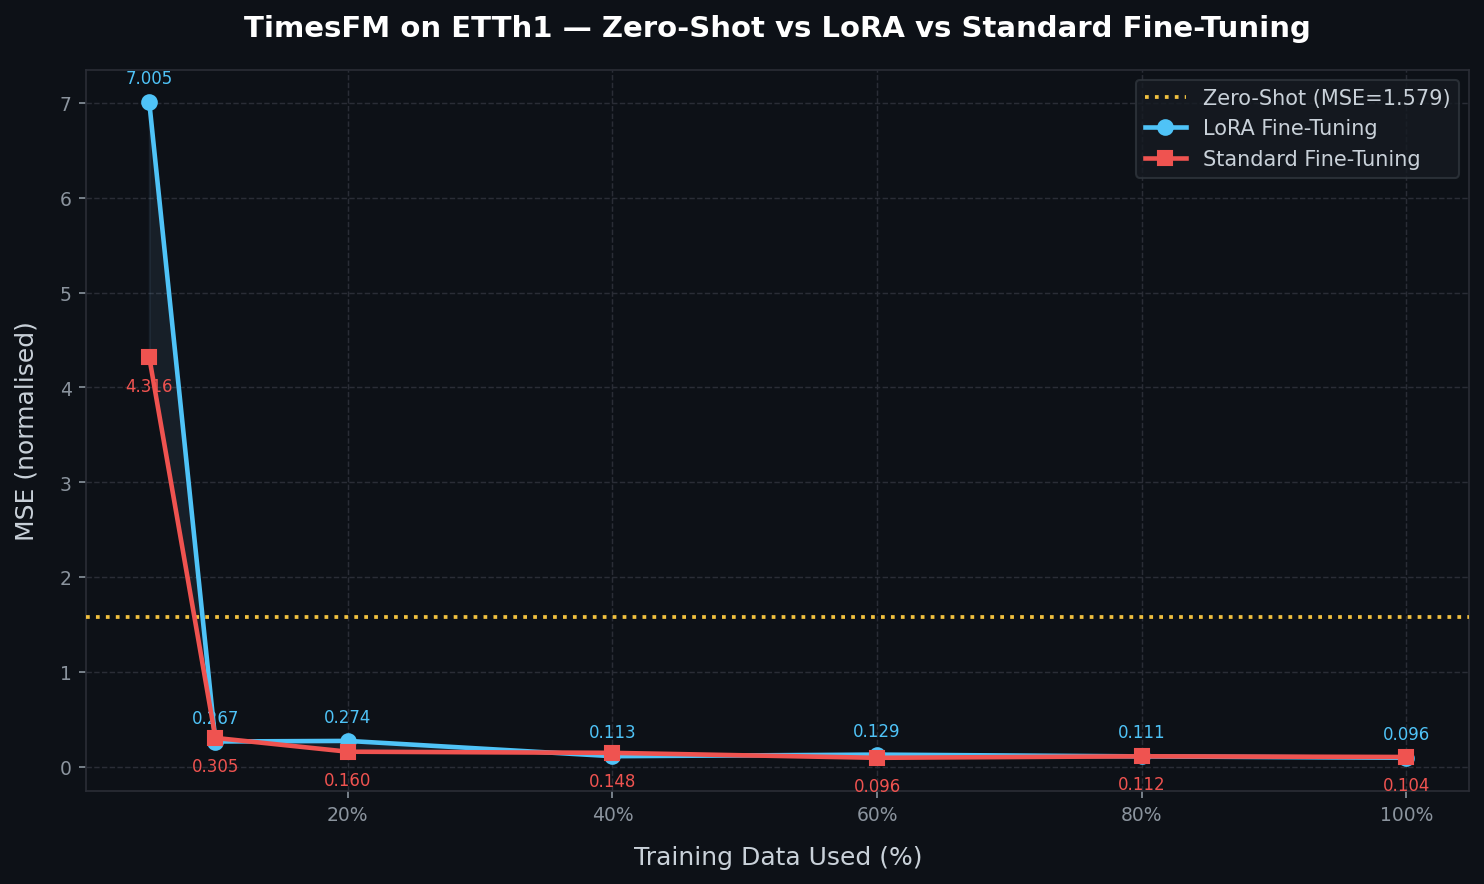
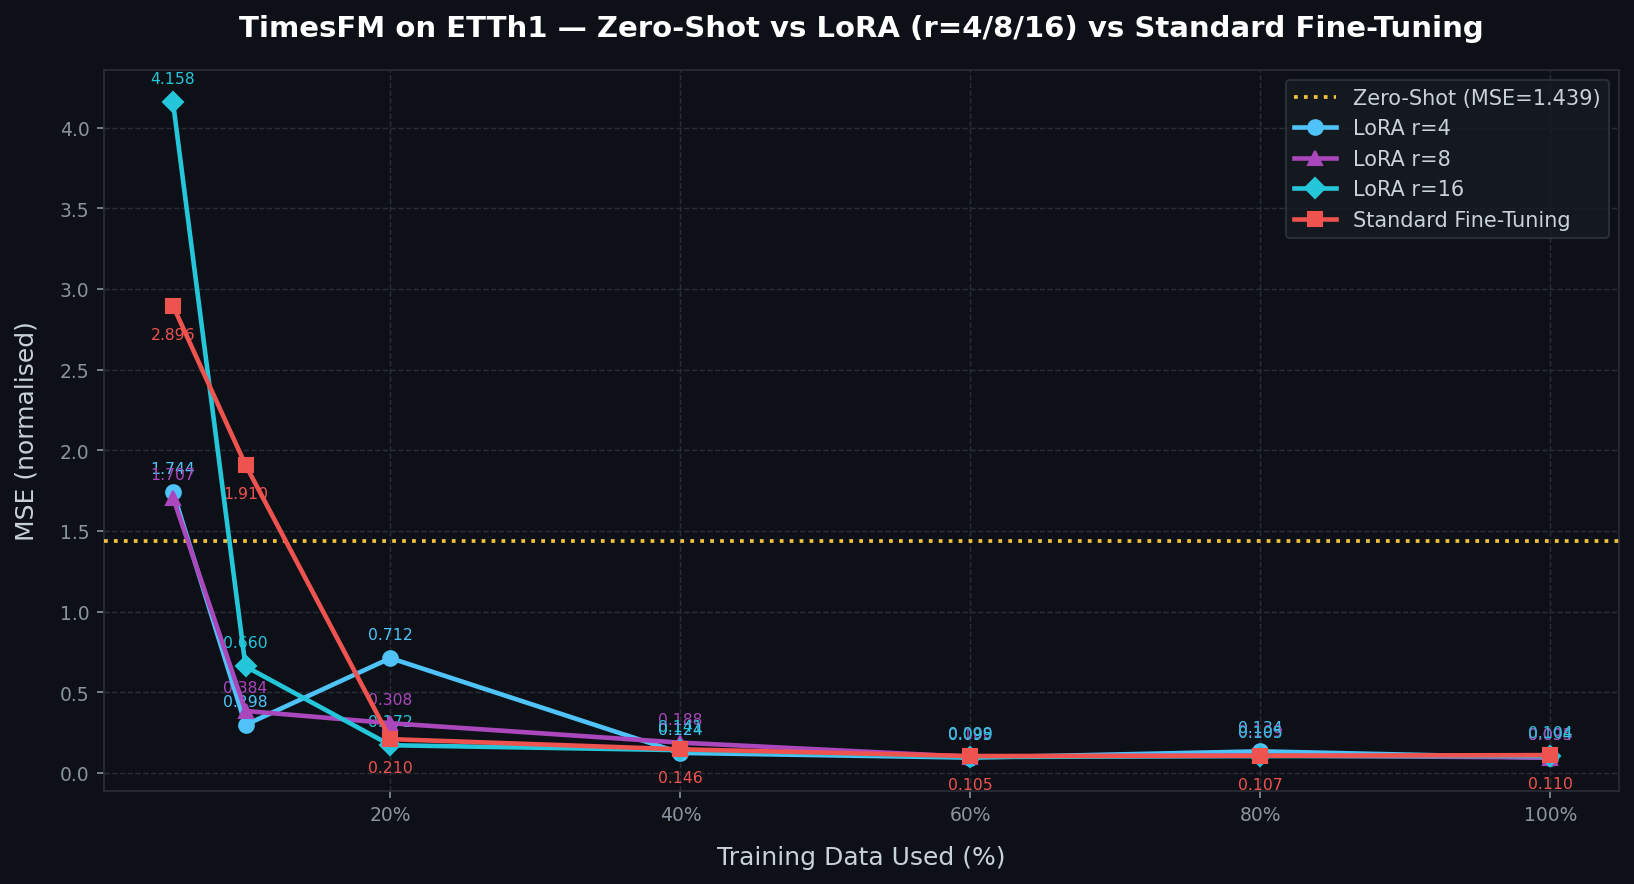
Regenerated Results

diff --git a/experiments.py b/experiments.py
@@ -1,11 +1,8 @@
 """
-TimesFM ETTh1 Benchmark: Zero-Shot vs LoRA vs Standard Fine-Tuning
+ETTh1 Benchmark: Zero-Shot vs LoRA vs Standard Fine-Tuning
 =================================================================
-Evaluates TimesFM across three training regimes on the ETTh1 dataset.
+Evaluates TimesFM-Based Surrogate Model across three training regimes on the ETTh1 dataset.
 Plots % Training Data vs MSE for each method.
-
-Dependencies:
-    pip install timesfm datasets pandas numpy matplotlib scikit-learn torch peft
 """
 
 import os
@@ -31,25 +28,6 @@ def count_trainable_params(model):
     print(f"    Trainable params: {trainable:,} / {total:,} "
           f"({100 * trainable / total:.2f}%)")
     return trainable, total
-
-# ── Try importing TimesFM (Google's model) ──────────────────────────────────
-try:
-    import timesfm
-    TIMESFM_AVAILABLE = True
-except ImportError:
-    TIMESFM_AVAILABLE = False
-    print("[WARNING] timesfm not installed. Run: pip install timesfm")
-    print("[INFO] Falling back to a lightweight Transformer surrogate for demo.\n")
-
-# ── Try importing PEFT for LoRA ──────────────────────────────────────────────
-try:
-    from peft import get_peft_model, LoraConfig, TaskType
-    PEFT_AVAILABLE = True
-except ImportError:
-    PEFT_AVAILABLE = False
-    print("[WARNING] peft not installed. Run: pip install peft")
-    print("[INFO] LoRA will use a manual low-rank adapter instead.\n")
-
 
 # ════════════════════════════════════════════════════════════════════════════
 # 0. CONFIG
@@ -115,44 +93,73 @@ def split_dataset(df, target_col=TARGET_COL):
 
 
 # ════════════════════════════════════════════════════════════════════════════
-# 2. SURROGATE MODEL (used when TimesFM is unavailable OR for fine-tuning)
+# 2. SURROGATE MODEL to Replicate TimesFM
 # ════════════════════════════════════════════════════════════════════════════
 class TimeSeriesTransformer(nn.Module):
     """
-    Lightweight Transformer for time-series forecasting.
-    Mimics TimesFM's patch-based encoder architecture at smaller scale.
-    Used as surrogate when timesfm package is absent, and as the
-    fine-tunable backbone in both SFT and LoRA experiments.
+    Decoder-only Transformer (GPT-style) for time-series forecasting.
     """
     def __init__(self, context_len=CONTEXT_LEN, forecast_len=FORECAST_LEN,
                  d_model=128, nhead=4, num_layers=3, patch_size=32):
         super().__init__()
-        self.patch_size  = patch_size
+
+        self.patch_size = patch_size
         self.num_patches = context_len // patch_size
         self.forecast_len = forecast_len
+        self.d_model = d_model
 
+        # ---- Patch embedding ----
         self.patch_embed = nn.Linear(patch_size, d_model)
         self.pos_emb     = nn.Embedding(self.num_patches, d_model)
-        encoder_layer    = nn.TransformerEncoderLayer(
-            d_model=d_model, nhead=nhead, dim_feedforward=d_model * 4,
-            dropout=0.1, batch_first=True
-        )
-        self.encoder = nn.TransformerEncoder(encoder_layer, num_layers=num_layers)
-        self.head    = nn.Linear(d_model * self.num_patches, forecast_len)
 
-    def forward(self, x):                          # x: (B, context_len)
+        # ---- Decoder-only stack ----
+        decoder_layer = nn.TransformerDecoderLayer(
+            d_model=d_model,
+            nhead=nhead,
+            dim_feedforward=d_model * 4,
+            dropout=0.1,
+            batch_first=True
+        )
+        self.decoder = nn.TransformerDecoder(decoder_layer, num_layers=num_layers)
+
+        # ---- Output head ----
+        self.head = nn.Linear(d_model * self.num_patches, forecast_len)
+
+    def _causal_mask(self, size, device):
+        return torch.triu(
+            torch.full((size, size), float('-inf'), device=device),
+            diagonal=1
+        )
+
+    def forward(self, x):
+        """
+        x: (B, context_len)
+        """
         B = x.size(0)
+        device = x.device
+
+        # ---- Patchify ----
         patches = x.view(B, self.num_patches, self.patch_size)  # (B, P, patch_size)
-        h = self.patch_embed(patches)              # (B, P, d_model)
-        pos = torch.arange(self.num_patches, device=x.device)
+        h = self.patch_embed(patches)                           # (B, P, d_model)
+
+        # ---- Add positional encoding ----
+        pos = torch.arange(self.num_patches, device=device)
         h = h + self.pos_emb(pos)
-        h = self.encoder(h)                        # (B, P, d_model)
-        h = h.reshape(B, -1)                       # (B, P*d_model)
-        return self.head(h)                        # (B, forecast_len)
+
+        # ---- Causal mask ----
+        tgt_mask = self._causal_mask(self.num_patches, device)
+
+        # ---- Decoder (no encoder memory) ----
+        # memory=None → acts like GPT-style self-attention
+        h = self.decoder(tgt=h, memory=h, tgt_mask=tgt_mask)
+
+        # ---- Flatten + predict ----
+        h = h.reshape(B, -1)
+        return self.head(h)
 
 
 # ════════════════════════════════════════════════════════════════════════════
-# 3. MANUAL LoRA (fallback when peft not available)
+# 3. LoRA Implementation
 # ════════════════════════════════════════════════════════════════════════════
 class LoRALinear(nn.Module):
     """Wraps an existing Linear layer with a low-rank adapter (r=8)."""
@@ -193,11 +200,11 @@ class LoRALinear(nn.Module):
 
 
 def inject_lora(model: nn.Module, r: int = 8) -> nn.Module:
-    """Replace every Linear in the encoder with a LoRA-wrapped version."""
-    for name, module in list(model.encoder.named_modules()):
+    """Replace every Linear in the Decoder with a LoRA-wrapped version."""
+    for name, module in list(model.decoder.named_modules()):
         if isinstance(module, nn.Linear):
             parent_name, child_name = name.rsplit(".", 1) if "." in name else ("", name)
-            parent = model.encoder
+            parent = model.decoder
             for part in parent_name.split("."):
                 if part:
                     parent = getattr(parent, part)
@@ -259,32 +266,8 @@ def run_zero_shot(X_test, y_test):
     on the test set — no gradient updates whatsoever.
     """
     print("\n── Zero-Shot Inference ──")
-    if TIMESFM_AVAILABLE:
-        print("  Using official TimesFM checkpoint...")
-        tfm = timesfm.TimesFm(
-            context_len=CONTEXT_LEN,
-            horizon_len=FORECAST_LEN,
-            input_patch_len=32,
-            output_patch_len=128,
-            num_layers=20,
-            model_dims=1280,
-            backend=("gpu" if torch.cuda.is_available() else "cpu"),
-        )
-        tfm.load_from_checkpoint(repo_id="google/timesfm-1.0-200m-pytorch")
-        all_preds, all_true = [], []
-        for i in range(len(X_test)):
-            context = X_test[i : i + 1]       # (1, context_len)
-            freq    = [0]                      # 0 = high-freq (hourly)
-            point_forecast, _ = tfm.forecast(context.tolist(), freq=freq)
-            all_preds.append(point_forecast[0][:FORECAST_LEN])
-            all_true.append(y_test[i])
-        preds = np.array(all_preds)
-        true  = np.array(all_true)
-        mse   = mean_squared_error(true.flatten(), preds.flatten())
-    else:
-        print("  TimesFM not available — using untrained surrogate (random weights).")
-        model = TimeSeriesTransformer().to(DEVICE)
-        mse   = evaluate_model(model, X_test, y_test)
+    model = TimeSeriesTransformer().to(DEVICE)
+    mse   = evaluate_model(model, X_test, y_test)
     print(f"  Zero-Shot MSE: {mse:.4f}")
     return mse
 
@@ -292,9 +275,9 @@ def run_zero_shot(X_test, y_test):
 # ════════════════════════════════════════════════════════════════════════════
 # 6. LORA FINE-TUNING
 # ════════════════════════════════════════════════════════════════════════════
-def run_lora(X_train_full, y_train_full, X_test, y_test, train_fracs):
+def run_lora(X_train_full, y_train_full, X_test, y_test, train_fracs, lora_rank = 8):
     """Fine-tune only LoRA adapters; backbone is frozen."""
-    print("\n── LoRA Fine-Tuning ──")
+    print(f"\n── LoRA Fine-Tuning: Rank = {lora_rank} ──")
     results = {}
     for frac in train_fracs:
         n = max(1, int(len(X_train_full) * frac))
@@ -302,29 +285,12 @@ def run_lora(X_train_full, y_train_full, X_test, y_test, train_fracs):
         print(f"  frac={frac:.0%}  n_samples={n}")
 
         # Fresh backbone each run (simulates loading pretrained checkpoint)
-        base_model = TimeSeriesTransformer()
-
-        if PEFT_AVAILABLE and hasattr(base_model, "encoder"):
-            # PEFT LoRA — works on nn.Linear layers inside encoder
-            try:
-                lora_cfg = LoraConfig(
-                    r=8, lora_alpha=16, lora_dropout=0.05,
-                    target_modules=["self_attn.in_proj_weight"],  # adjust if needed
-                    task_type=TaskType.FEATURE_EXTRACTION,
-                )
-                model = get_peft_model(base_model, lora_cfg)
-                print("    PEFT LoRA injected.")
-            except Exception:
-                model = inject_lora(base_model)
-                print("    Manual LoRA injected (PEFT config not compatible).")
-        else:
-            model = inject_lora(base_model)
-            print("    Manual LoRA injected.")
+        base_model = TimeSeriesTransformer().to(DEVICE)
+        model = inject_lora(base_model, r = lora_rank)
+        print("    Manual LoRA injected.")
 
         # Count trainable params
-        total  = sum(p.numel() for p in model.parameters())
-        trainable = sum(p.numel() for p in model.parameters() if p.requires_grad)
-        print(f"    Trainable params: {trainable:,} / {total:,} ({100*trainable/total:.1f}%)")
+        count_trainable_params(model)
 
         loader = get_dataloader(X_sub, y_sub)
         model  = train_model(model, loader)
@@ -346,7 +312,7 @@ def run_sft(X_train_full, y_train_full, X_test, y_test, train_fracs):
         X_sub, y_sub = X_train_full[:n], y_train_full[:n]
         print(f"  frac={frac:.0%}  n_samples={n}")
 
-        model  = TimeSeriesTransformer()          # fresh each run
+        model  = TimeSeriesTransformer().to(DEVICE)          # fresh each run
         count_trainable_params(model)           # all params are trainable in SFT   
         loader = get_dataloader(X_sub, y_sub)
         model  = train_model(model, loader)
@@ -359,13 +325,15 @@ def run_sft(X_train_full, y_train_full, X_test, y_test, train_fracs):
 # ════════════════════════════════════════════════════════════════════════════
 # 8. PLOTTING
 # ════════════════════════════════════════════════════════════════════════════
-def plot_results(zero_shot_mse, lora_results, sft_results, save_path="results.png"):
+def plot_results(zero_shot_mse, lora_results_rank_4, lora_results_rank_8, lora_results_rank_16, sft_results, save_path="results.png"):
     fracs_pct = [f * 100 for f in TRAIN_FRACS]
 
-    lora_mse = [lora_results[f] for f in TRAIN_FRACS]
-    sft_mse  = [sft_results[f]  for f in TRAIN_FRACS]
+    lora_mse_4  = [lora_results_rank_4[f]  for f in TRAIN_FRACS]
+    lora_mse_8  = [lora_results_rank_8[f]  for f in TRAIN_FRACS]
+    lora_mse_16 = [lora_results_rank_16[f] for f in TRAIN_FRACS]
+    sft_mse     = [sft_results[f]          for f in TRAIN_FRACS]
 
-    fig, ax = plt.subplots(figsize=(10, 6))
+    fig, ax = plt.subplots(figsize=(11, 6))
     fig.patch.set_facecolor("#0d1117")
     ax.set_facecolor("#0d1117")
 
@@ -376,13 +344,18 @@ def plot_results(zero_shot_mse, lora_results, sft_results, save_path="results.pn
     ax.axhline(zero_shot_mse, color="#f0c040", linewidth=1.8,
                linestyle=":", label=f"Zero-Shot (MSE={zero_shot_mse:.3f})", zorder=3)
 
-    # LoRA line
-    ax.plot(fracs_pct, lora_mse, marker="o", markersize=7,
-            color="#4fc3f7", linewidth=2.2,
-            label="LoRA Fine-Tuning", zorder=4)
-    for x, y in zip(fracs_pct, lora_mse):
-        ax.annotate(f"{y:.3f}", (x, y), textcoords="offset points",
-                    xytext=(0, 9), ha="center", fontsize=8, color="#4fc3f7")
+    # LoRA lines (one per rank)
+    lora_series = [
+        (lora_mse_4,  "#4fc3f7", "o", "LoRA r=4",  9),
+        (lora_mse_8,  "#ab47bc", "^", "LoRA r=8",  9),
+        (lora_mse_16, "#26c6da", "D", "LoRA r=16", 9),
+    ]
+    for mse_vals, color, marker, label, y_offset in lora_series:
+        ax.plot(fracs_pct, mse_vals, marker=marker, markersize=7,
+                color=color, linewidth=2.2, label=label, zorder=4)
+        for x, y in zip(fracs_pct, mse_vals):
+            ax.annotate(f"{y:.3f}", (x, y), textcoords="offset points",
+                        xytext=(0, y_offset), ha="center", fontsize=7.5, color=color)
 
     # SFT line
     ax.plot(fracs_pct, sft_mse, marker="s", markersize=7,
@@ -390,16 +363,12 @@ def plot_results(zero_shot_mse, lora_results, sft_results, save_path="results.pn
             label="Standard Fine-Tuning", zorder=4)
     for x, y in zip(fracs_pct, sft_mse):
         ax.annotate(f"{y:.3f}", (x, y), textcoords="offset points",
-                    xytext=(0, -16), ha="center", fontsize=8, color="#ef5350")
-
-    # Shaded region between LoRA and SFT
-    ax.fill_between(fracs_pct, lora_mse, sft_mse,
-                    alpha=0.08, color="#90caf9", zorder=2)
+                    xytext=(0, -16), ha="center", fontsize=7.5, color="#ef5350")
 
     # Axes styling
     ax.set_xlabel("Training Data Used (%)", color="#c9d1d9", fontsize=12, labelpad=10)
     ax.set_ylabel("MSE (normalised)", color="#c9d1d9", fontsize=12, labelpad=10)
-    ax.set_title("TimesFM on ETTh1 — Zero-Shot vs LoRA vs Standard Fine-Tuning",
+    ax.set_title("TimesFM on ETTh1 — Zero-Shot vs LoRA (r=4/8/16) vs Standard Fine-Tuning",
                  color="#ffffff", fontsize=14, fontweight="bold", pad=16)
 
     ax.tick_params(colors="#8b949e", labelsize=9)
@@ -408,8 +377,8 @@ def plot_results(zero_shot_mse, lora_results, sft_results, save_path="results.pn
 
     ax.xaxis.set_major_formatter(mticker.PercentFormatter())
 
-    legend = ax.legend(facecolor="#161b22", edgecolor="#30363d",
-                       labelcolor="#c9d1d9", fontsize=10, loc="upper right")
+    ax.legend(facecolor="#161b22", edgecolor="#30363d",
+              labelcolor="#c9d1d9", fontsize=10, loc="upper right")
 
     plt.tight_layout()
     plt.savefig(save_path, dpi=150, bbox_inches="tight", facecolor=fig.get_facecolor())
@@ -433,7 +402,9 @@ def main():
 
     # ── Experiments ─────────────────────────────────────────────────────────
     zero_shot_mse = run_zero_shot(X_test, y_test)
-    lora_results  = run_lora(X_train, y_train, X_test, y_test, TRAIN_FRACS)
+    lora_results_rank_4 = run_lora(X_train, y_train, X_test, y_test, TRAIN_FRACS, lora_rank = 4)
+    lora_results_rank_8  = run_lora(X_train, y_train, X_test, y_test, TRAIN_FRACS, lora_rank = 8)
+    lora_results_rank_16 = run_lora(X_train, y_train, X_test, y_test, TRAIN_FRACS, lora_rank = 16)
     sft_results   = run_sft(X_train, y_train, X_test, y_test, TRAIN_FRACS)
 
     # ── Results Table ────────────────────────────────────────────────────────
@@ -443,12 +414,28 @@ def main():
     print(f"{'Train %':>10} {'LoRA MSE':>12} {'SFT MSE':>12}")
     print("-" * 36)
     for f in TRAIN_FRACS:
-        print(f"{f*100:>9.0f}% {lora_results[f]:>12.4f} {sft_results[f]:>12.4f}")
+        print(f"{f*100:>9.0f}% {lora_results_rank_4[f]:>12.4f} {lora_results_rank_8[f]:>12.4f} {lora_results_rank_16[f]:>12.4f} {sft_results[f]:>12.4f}")
     print(f"\n{'Zero-Shot MSE':>23} {zero_shot_mse:>12.4f}")
     print("=" * 60)
 
+    # ── Save Results to CSV ──────────────────────────────────────────────────
+    rows = []
+    for f in TRAIN_FRACS:
+        rows.append({
+            "train_pct":      f * 100,
+            "lora_r4_mse":    lora_results_rank_4[f],
+            "lora_r8_mse":    lora_results_rank_8[f],
+            "lora_r16_mse":   lora_results_rank_16[f],
+            "sft_mse":        sft_results[f],
+            "zero_shot_mse":  zero_shot_mse,
+        })
+    results_df = pd.DataFrame(rows)
+    csv_path = "timesfm_etth1_results.csv"
+    results_df.to_csv(csv_path, index=False)
+    print(f"✓ Results saved to: {csv_path}")
+
     # ── Plot ─────────────────────────────────────────────────────────────────
-    plot_results(zero_shot_mse, lora_results, sft_results,
+    plot_results(zero_shot_mse, lora_results_rank_4, lora_results_rank_8, lora_results_rank_16, sft_results,
                  save_path="timesfm_etth1_results.png")
 
 
